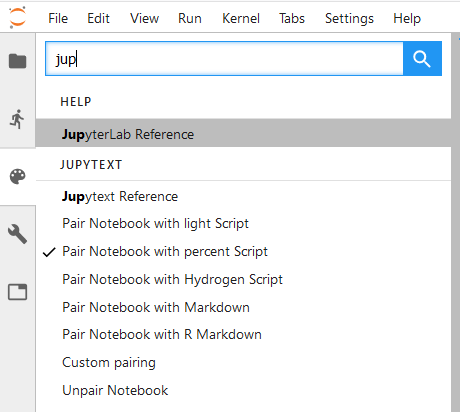
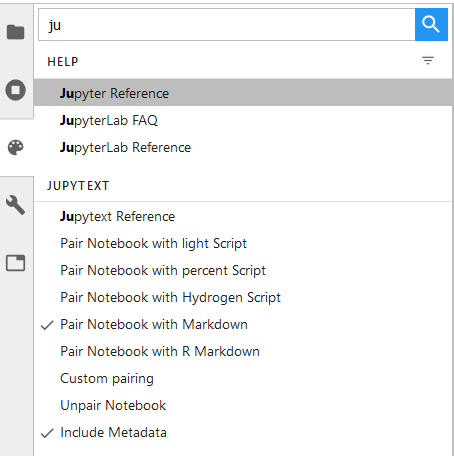
New version of the jupyterlab extension #276
Filter pairing options on text files (Fixes #213)
New command 'include metadata'

diff --git a/packages/labextension/src/index.ts b/packages/labextension/src/index.ts
@@ -6,10 +6,10 @@ import { INotebookTracker } from "@jupyterlab/notebook";
 
 import { nbformat } from "@jupyterlab/coreutils";
 
-import "../style/index.css";
-
 interface JupytextSection {
   formats?: string;
+  notebook_metadata_filter?: string;
+  cell_metadata_filter?: string;
 }
 
 const JUPYTEXT_FORMATS = [
@@ -55,8 +55,8 @@ const extension: JupyterLabPlugin<void> = {
     palette: ICommandPalette,
     notebook_tracker: INotebookTracker
   ) => {
-    console.log("JupyterLab extension jupyterlab-jupytext is activated");
-
+    console.log("JupyterLab extension jupyterlab-jupytext is activated");    
+    
     // Jupytext formats
     JUPYTEXT_FORMATS.forEach((args, rank) => {
       const formats: string = args["formats"];
@@ -83,9 +83,9 @@ const extension: JupyterLabPlugin<void> = {
           ) as nbformat.ILanguageInfoMetadata;
           const jupytext_formats = lang
             ? jupytext.formats.replace(
-                "," + lang.file_extension.substring(1) + ":",
-                ",auto:"
-              )
+              "," + lang.file_extension.substring(1) + ":",
+              ",auto:"
+            )
             : jupytext.formats;
 
           if (formats == "custom")
@@ -103,6 +103,8 @@ const extension: JupyterLabPlugin<void> = {
           return jupytext_formats == formats;
         },
         isEnabled: () => {
+          if (!notebook_tracker.currentWidget)
+              return false;
           if (formats == "custom" || formats == "none")
             return true;
           const notebook_extension: string = notebook_tracker.currentWidget.context.path.split('.').pop();
@@ -168,8 +170,67 @@ const extension: JupyterLabPlugin<void> = {
       },
       command: "help:open",
       category: "Jupytext",
-      rank: JUPYTEXT_FORMATS.length
+      rank: JUPYTEXT_FORMATS.length + 1
     });
+
+    // Metadata in text representation    
+    app.commands.addCommand("jupytext_metadata", {
+      label: "Include Metadata",
+      isToggled: () => {
+        if (!notebook_tracker.currentWidget)
+          return false;
+
+        if (!notebook_tracker.currentWidget.context.model.metadata.has("jupytext"))
+          return false;
+
+        const jupytext: JupytextSection = (notebook_tracker.currentWidget.context.model.metadata.get("jupytext") as unknown) as JupytextSection;
+
+        if (jupytext.notebook_metadata_filter === '-all')
+          return false;
+
+        return true;
+      },
+      isEnabled: () => {
+        if (!notebook_tracker.currentWidget)
+          return false;
+
+        if (!notebook_tracker.currentWidget.context.model.metadata.has("jupytext"))
+          return false;
+
+        const jupytext: JupytextSection = (notebook_tracker.currentWidget.context.model.metadata.get("jupytext") as unknown) as JupytextSection;
+
+        if (jupytext.notebook_metadata_filter === undefined)
+          return true;
+
+        if (jupytext.notebook_metadata_filter === '-all')
+          return true;
+
+        return false;
+      },
+      execute: () => {
+        console.log("Jupytext: toggling YAML header");
+        if (!notebook_tracker.currentWidget)
+          return;
+
+        if (!notebook_tracker.currentWidget.context.model.metadata.has("jupytext"))
+          return;
+
+        const jupytext: JupytextSection = (notebook_tracker.currentWidget.context.model.metadata.get("jupytext") as unknown) as JupytextSection;
+
+        if (jupytext.notebook_metadata_filter) {
+          delete jupytext.notebook_metadata_filter;
+          if (jupytext.cell_metadata_filter === '-all')
+            delete jupytext.cell_metadata_filter;
+          return
+        }
+
+        jupytext.notebook_metadata_filter = '-all'
+        if (jupytext.cell_metadata_filter === undefined)
+          jupytext.cell_metadata_filter = '-all';
+      }
+    });
+
+    palette.addItem({ command: "jupytext_metadata", rank: JUPYTEXT_FORMATS.length + 1, category: "Jupytext" });
   }
 };
 

diff --git a/setup.py b/setup.py
@@ -31,7 +31,7 @@ setup(
                                                          'jupytext/nbextension/jupytext_menu.png',
                                                          'jupytext/nbextension/jupytext_menu_zoom.png',
                                                          'jupytext/nbextension/jupytext.yml']),
-                ('share/jupyter/lab/extensions', ['packages/labextension/jupyterlab-jupytext-0.1.1.tgz'])],
+                ('share/jupyter/lab/extensions', ['packages/labextension/jupyterlab-jupytext-0.2.0.tgz'])],
     entry_points={'console_scripts': ['jupytext = jupytext.cli:jupytext_cli']},
     tests_require=['pytest'],
     install_requires=['nbformat>=4.0.0', 'mock', 'pyyaml', 'testfixtures'],

diff --git a/packages/labextension/README.md b/packages/labextension/README.md
@@ -14,7 +14,7 @@ jupyter labextension install jupyterlab-jupytext
 
 # How to develop this extension
 
-We started developping the extension following the [xkcd extension tutorial](https://jupyterlab.readthedocs.io/en/stable/developer/xkcd_extension_tutorial.html). Follow the instructions there to create a conda environment in which you will be able to develop the extension. In that environment, install JupyterLab's plugin manager, and the extension with
+We developed the extension following the [xkcd extension tutorial](https://jupyterlab.readthedocs.io/en/stable/developer/xkcd_extension_tutorial.html). Follow the instructions there to create a conda environment in which you will be able to develop the extension. In that environment, install JupyterLab's plugin manager, and the extension with
 ```bash
 jlpm install
 jupyter labextension install . --no-build
